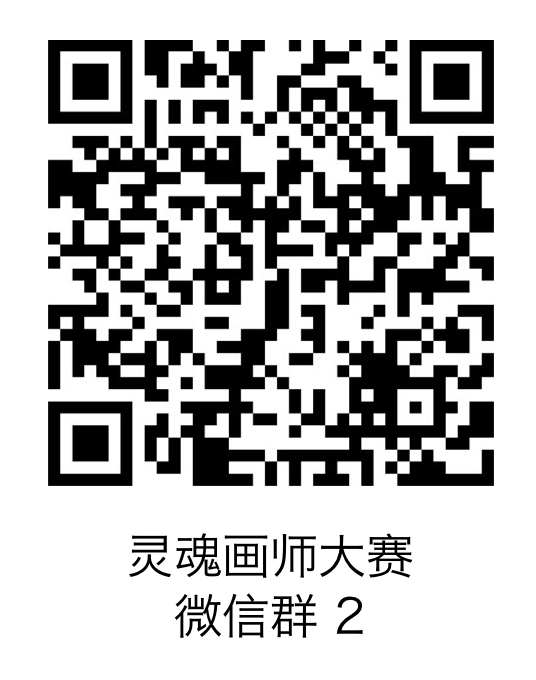
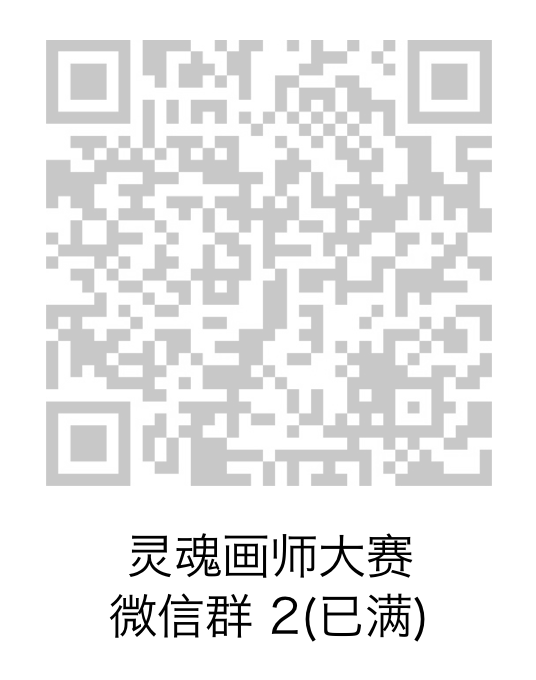
update qrcodes

diff --git a/event.html b/event.html
@@ -41,7 +41,7 @@
       <h3>奖项设置</h3>
       <p>1. 三名优胜画师，每人颁发 10,000 元奖金；<br>2. 七名优秀画师，每人颁发 3,000 元奖金；<br>3. 有机会获邀成为我们的签约设计师。<a href="https://sunday37.com/" class="link-8">（关于我们）</a></p>
       <h3>参赛方式</h3>
-      <p>1. 投稿邮箱：hi@sunday37.com ；<br>2. 请于邮件标题注明「灵魂画师投稿+姓名+手机号」，将作品的源文件压缩 zip 贴于邮件附件，注意附件文件名应包含姓名；<br>3. 还可在正文附带个人简介若干、作品集，或其它你希望我们了解你的信息。<br>4. <B>请加活动微信群（群1已满，群2将满）：</B></p><img src="images/Artboard-1.png" width="180"><img src="images/Artboard-2.png" width="180"><img src="images/Artboard-3.png" width="180">
+      <p>1. 投稿邮箱：hi@sunday37.com ；<br>2. 请于邮件标题注明「灵魂画师投稿+姓名+手机号」，将作品的源文件压缩 zip 贴于邮件附件，注意附件文件名应包含姓名；<br>3. 还可在正文附带个人简介若干、作品集，或其它你希望我们了解你的信息。<br>4. <B>请加活动微信群：</B></p><img src="images/Artboard-1.png" width="180"><img src="images/Artboard-2.png" width="180"><img src="images/Artboard-3.png" width="180">
       <h3>时间</h3>
       <p>投稿启动：2018年5月1日<br>投稿截止：2018年5月20日（已延长）<br>项目评选：2018年5月21日<br>结果公布：2018年5月28日</p>
       <h3>参赛须知</h3>
